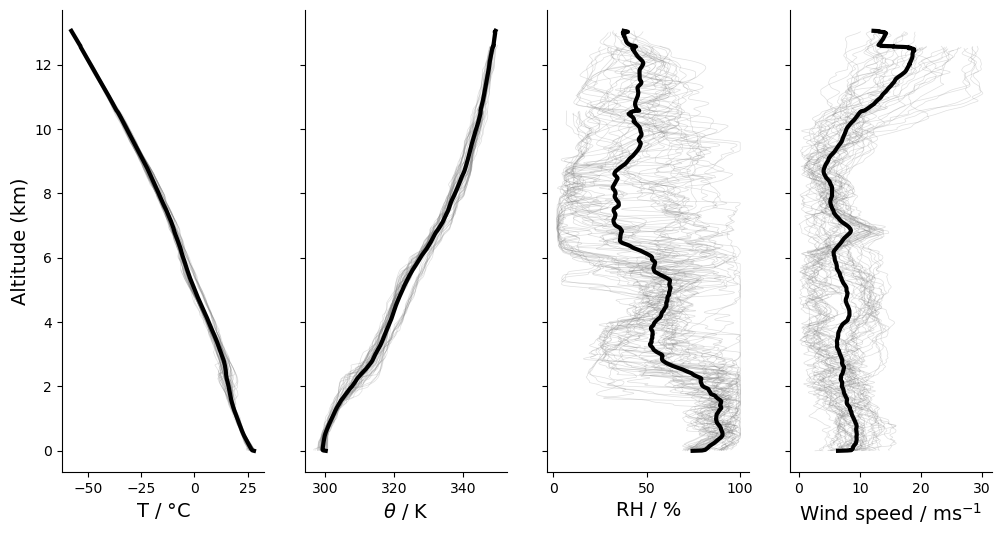
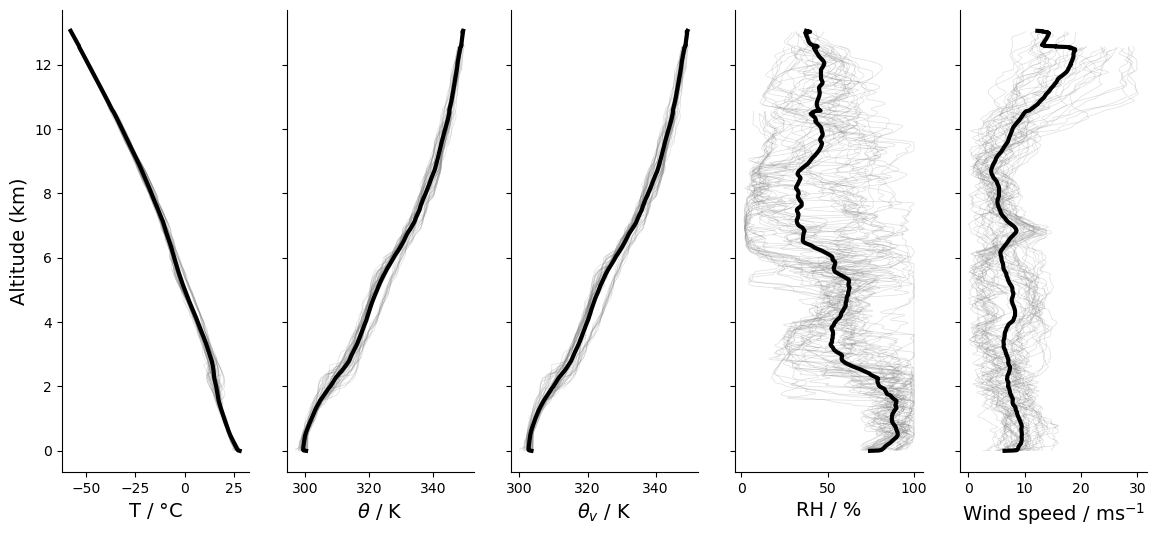
add theta_v

diff --git a/quicklook_scripts/quicklooks_HALO-20240811a.py b/quicklook_scripts/quicklooks_HALO-20240811a.py
@@ -1,5 +1,9 @@
+import sys
+import os
+
+sys.path.append(os.path.abspath(os.path.join(os.getcwd(), "..", "plotting")))
 from quickgrid import grid_together, derived_products
-from plotting import all_quicklook_plots, profiles_from_ds
+from plotting import all_quicklook_plots
 from datetime import datetime
 
 flight_time = datetime(2024, 8, 11, 0, 0, 0)
@@ -14,24 +18,3 @@ dropsonde_ds = derived_products(dropsonde_ds)
 
 # Plots for all sondes
 all_quicklook_plots(dropsonde_ds, flight_id)
-
-# Plots for individual circles
-circle_start_times = [
-    "2024-08-11T14:15",
-    "2024-08-11T16:00",
-    "2024-08-11T17:25",
-    "2024-08-11T19:05",
-]
-circle_end_times = [
-    "2024-08-11T15:30",
-    "2024-08-11T17:20",
-    "2024-08-11T19:00",
-    "2024-08-11T21:00",
-]
-circle_names = ["circle_south", "circle_middle", "circle_north", "circle_atr"]
-
-for i in range(circle_start_times):
-    circle_ds = dropsonde_ds.sel(
-        launch_time=slice(circle_start_times[i], circle_end_times)
-    )
-    profiles_from_ds(circle_ds, flight_id)

diff --git a/quicklook_scripts/quicklooks_HALO-20240813a.py b/quicklook_scripts/quicklooks_HALO-20240813a.py
@@ -1,5 +1,9 @@
+import sys
+import os
+
+sys.path.append(os.path.abspath(os.path.join(os.getcwd(), "..", "plotting")))
 from quickgrid import grid_together, derived_products
-from plotting import all_quicklook_plots, profiles_from_ds
+from plotting import all_quicklook_plots
 from datetime import datetime
 
 flight_time = datetime(2024, 8, 13, 0, 0, 0)
@@ -14,24 +18,3 @@ dropsonde_ds = derived_products(dropsonde_ds)
 
 # Plots for all sondes
 all_quicklook_plots(dropsonde_ds, flight_id)
-
-# Plots for individual circles
-circle_start_times = [
-    "2024-08-11T14:15",
-    "2024-08-11T16:00",
-    "2024-08-11T17:25",
-    "2024-08-11T19:05",
-]
-circle_end_times = [
-    "2024-08-11T15:30",
-    "2024-08-11T17:20",
-    "2024-08-11T19:00",
-    "2024-08-11T21:00",
-]
-circle_names = ["circle_south", "circle_middle", "circle_north", "circle_atr"]
-
-for i in range(circle_start_times):
-    circle_ds = dropsonde_ds.sel(
-        launch_time=slice(circle_start_times[i], circle_end_times)
-    )
-    profiles_from_ds(circle_ds, flight_id)

diff --git a/quicklook_scripts/quicklooks_HALO-20240816a.py b/quicklook_scripts/quicklooks_HALO-20240816a.py
@@ -1,5 +1,9 @@
+import sys
+import os
+
+sys.path.append(os.path.abspath(os.path.join(os.getcwd(), "..", "plotting")))
 from quickgrid import grid_together, derived_products
-from plotting import all_quicklook_plots, profiles_from_ds
+from plotting import all_quicklook_plots
 from datetime import datetime
 
 flight_time = datetime(2024, 8, 16, 0, 0, 0)
@@ -14,24 +18,3 @@ dropsonde_ds = derived_products(dropsonde_ds)
 
 # Plots for all sondes
 all_quicklook_plots(dropsonde_ds, flight_id)
-
-# Plots for individual circles
-circle_start_times = [
-    "2024-08-11T14:15",
-    "2024-08-11T16:00",
-    "2024-08-11T17:25",
-    "2024-08-11T19:05",
-]
-circle_end_times = [
-    "2024-08-11T15:30",
-    "2024-08-11T17:20",
-    "2024-08-11T19:00",
-    "2024-08-11T21:00",
-]
-circle_names = ["circle_south", "circle_middle", "circle_north", "circle_atr"]
-
-for i in range(circle_start_times):
-    circle_ds = dropsonde_ds.sel(
-        launch_time=slice(circle_start_times[i], circle_end_times)
-    )
-    profiles_from_ds(circle_ds, flight_id)

diff --git a/quicklook_scripts/quicklooks_HALO-20240818a.py b/quicklook_scripts/quicklooks_HALO-20240818a.py
@@ -1,5 +1,9 @@
+import sys
+import os
+
+sys.path.append(os.path.abspath(os.path.join(os.getcwd(), "..", "plotting")))
 from quickgrid import grid_together, derived_products
-from plotting import all_quicklook_plots, profiles_from_ds
+from plotting import all_quicklook_plots
 from datetime import datetime
 
 flight_time = datetime(2024, 8, 18, 0, 0, 0)
@@ -14,24 +18,3 @@ dropsonde_ds = derived_products(dropsonde_ds)
 
 # Plots for all sondes
 all_quicklook_plots(dropsonde_ds, flight_id)
-
-# Plots for individual circles
-circle_start_times = [
-    "2024-08-11T14:15",
-    "2024-08-11T16:00",
-    "2024-08-11T17:25",
-    "2024-08-11T19:05",
-]
-circle_end_times = [
-    "2024-08-11T15:30",
-    "2024-08-11T17:20",
-    "2024-08-11T19:00",
-    "2024-08-11T21:00",
-]
-circle_names = ["circle_south", "circle_middle", "circle_north", "circle_atr"]
-
-for i in range(circle_start_times):
-    circle_ds = dropsonde_ds.sel(
-        launch_time=slice(circle_start_times[i], circle_end_times)
-    )
-    profiles_from_ds(circle_ds, flight_id)

diff --git a/quicklook_scripts/quicklooks_HALO-20240821a.py b/quicklook_scripts/quicklooks_HALO-20240821a.py
@@ -1,5 +1,9 @@
+import sys
+import os
+
+sys.path.append(os.path.abspath(os.path.join(os.getcwd(), "..", "plotting")))
 from quickgrid import grid_together, derived_products
-from plotting import all_quicklook_plots, profiles_from_ds
+from plotting import all_quicklook_plots
 from datetime import datetime
 
 flight_time = datetime(2024, 8, 21, 0, 0, 0)
@@ -14,24 +18,3 @@ dropsonde_ds = derived_products(dropsonde_ds)
 
 # Plots for all sondes
 all_quicklook_plots(dropsonde_ds, flight_id)
-
-# Plots for individual circles
-circle_start_times = [
-    "2024-08-11T14:15",
-    "2024-08-11T16:00",
-    "2024-08-11T17:25",
-    "2024-08-11T19:05",
-]
-circle_end_times = [
-    "2024-08-11T15:30",
-    "2024-08-11T17:20",
-    "2024-08-11T19:00",
-    "2024-08-11T21:00",
-]
-circle_names = ["circle_south", "circle_middle", "circle_north", "circle_atr"]
-
-for i in range(circle_start_times):
-    circle_ds = dropsonde_ds.sel(
-        launch_time=slice(circle_start_times[i], circle_end_times)
-    )
-    profiles_from_ds(circle_ds, flight_id)

diff --git a/quicklook_scripts/quicklooks_HALO-20240822a.py b/quicklook_scripts/quicklooks_HALO-20240822a.py
@@ -1,5 +1,9 @@
+import sys
+import os
+
+sys.path.append(os.path.abspath(os.path.join(os.getcwd(), "..", "plotting")))
 from quickgrid import grid_together, derived_products
-from plotting import all_quicklook_plots, profiles_from_ds
+from plotting import all_quicklook_plots
 from datetime import datetime
 
 flight_time = datetime(2024, 8, 22, 0, 0, 0)
@@ -14,24 +18,3 @@ dropsonde_ds = derived_products(dropsonde_ds)
 
 # Plots for all sondes
 all_quicklook_plots(dropsonde_ds, flight_id)
-
-# Plots for individual circles
-circle_start_times = [
-    "2024-08-11T14:15",
-    "2024-08-11T16:00",
-    "2024-08-11T17:25",
-    "2024-08-11T19:05",
-]
-circle_end_times = [
-    "2024-08-11T15:30",
-    "2024-08-11T17:20",
-    "2024-08-11T19:00",
-    "2024-08-11T21:00",
-]
-circle_names = ["circle_south", "circle_middle", "circle_north", "circle_atr"]
-
-for i in range(circle_start_times):
-    circle_ds = dropsonde_ds.sel(
-        launch_time=slice(circle_start_times[i], circle_end_times)
-    )
-    profiles_from_ds(circle_ds, flight_id)

diff --git a/plotting/plotting.py b/plotting/plotting.py
@@ -262,16 +262,17 @@ def lat_time_plot(ds_flight, flight_id, fs=14):
     )
 
 
-def profiles_from_ds(ds_flight, flight_id, fs=14):
+def all_profiles(ds_flight, flight_id, fs=14):
     row = 1
-    col = 4
+    col = 5
 
-    fig, ax = plt.subplots(row, col, sharey=True, figsize=(12, 6))
+    fig, ax = plt.subplots(row, col, sharey=True, figsize=(14, 6))
 
-    r = ["tdry", "theta", "rh", "wspd", "wdir"]
+    r = ["tdry", "theta", "theta_v", "rh", "wspd", "wdir"]
     r_titles = [
         "T / $\degree$C",
         "$\\theta$ / K",
+        "$\\theta_v$ / K",
         "RH / %",
         "Wind speed / ms$^{-1}$",
         "Wind direction / $\degree$",
@@ -366,5 +367,5 @@ def drift_plots(ds_flight, flight_id, fs=14):
 def all_quicklook_plots(ds_flight, flight_id):
     launch_locations_map(ds_flight, flight_id)
     lat_time_plot(ds_flight, flight_id)
-    profiles_from_ds(ds_flight, flight_id)
+    all_profiles(ds_flight, flight_id)
     drift_plots(ds_flight, flight_id)
